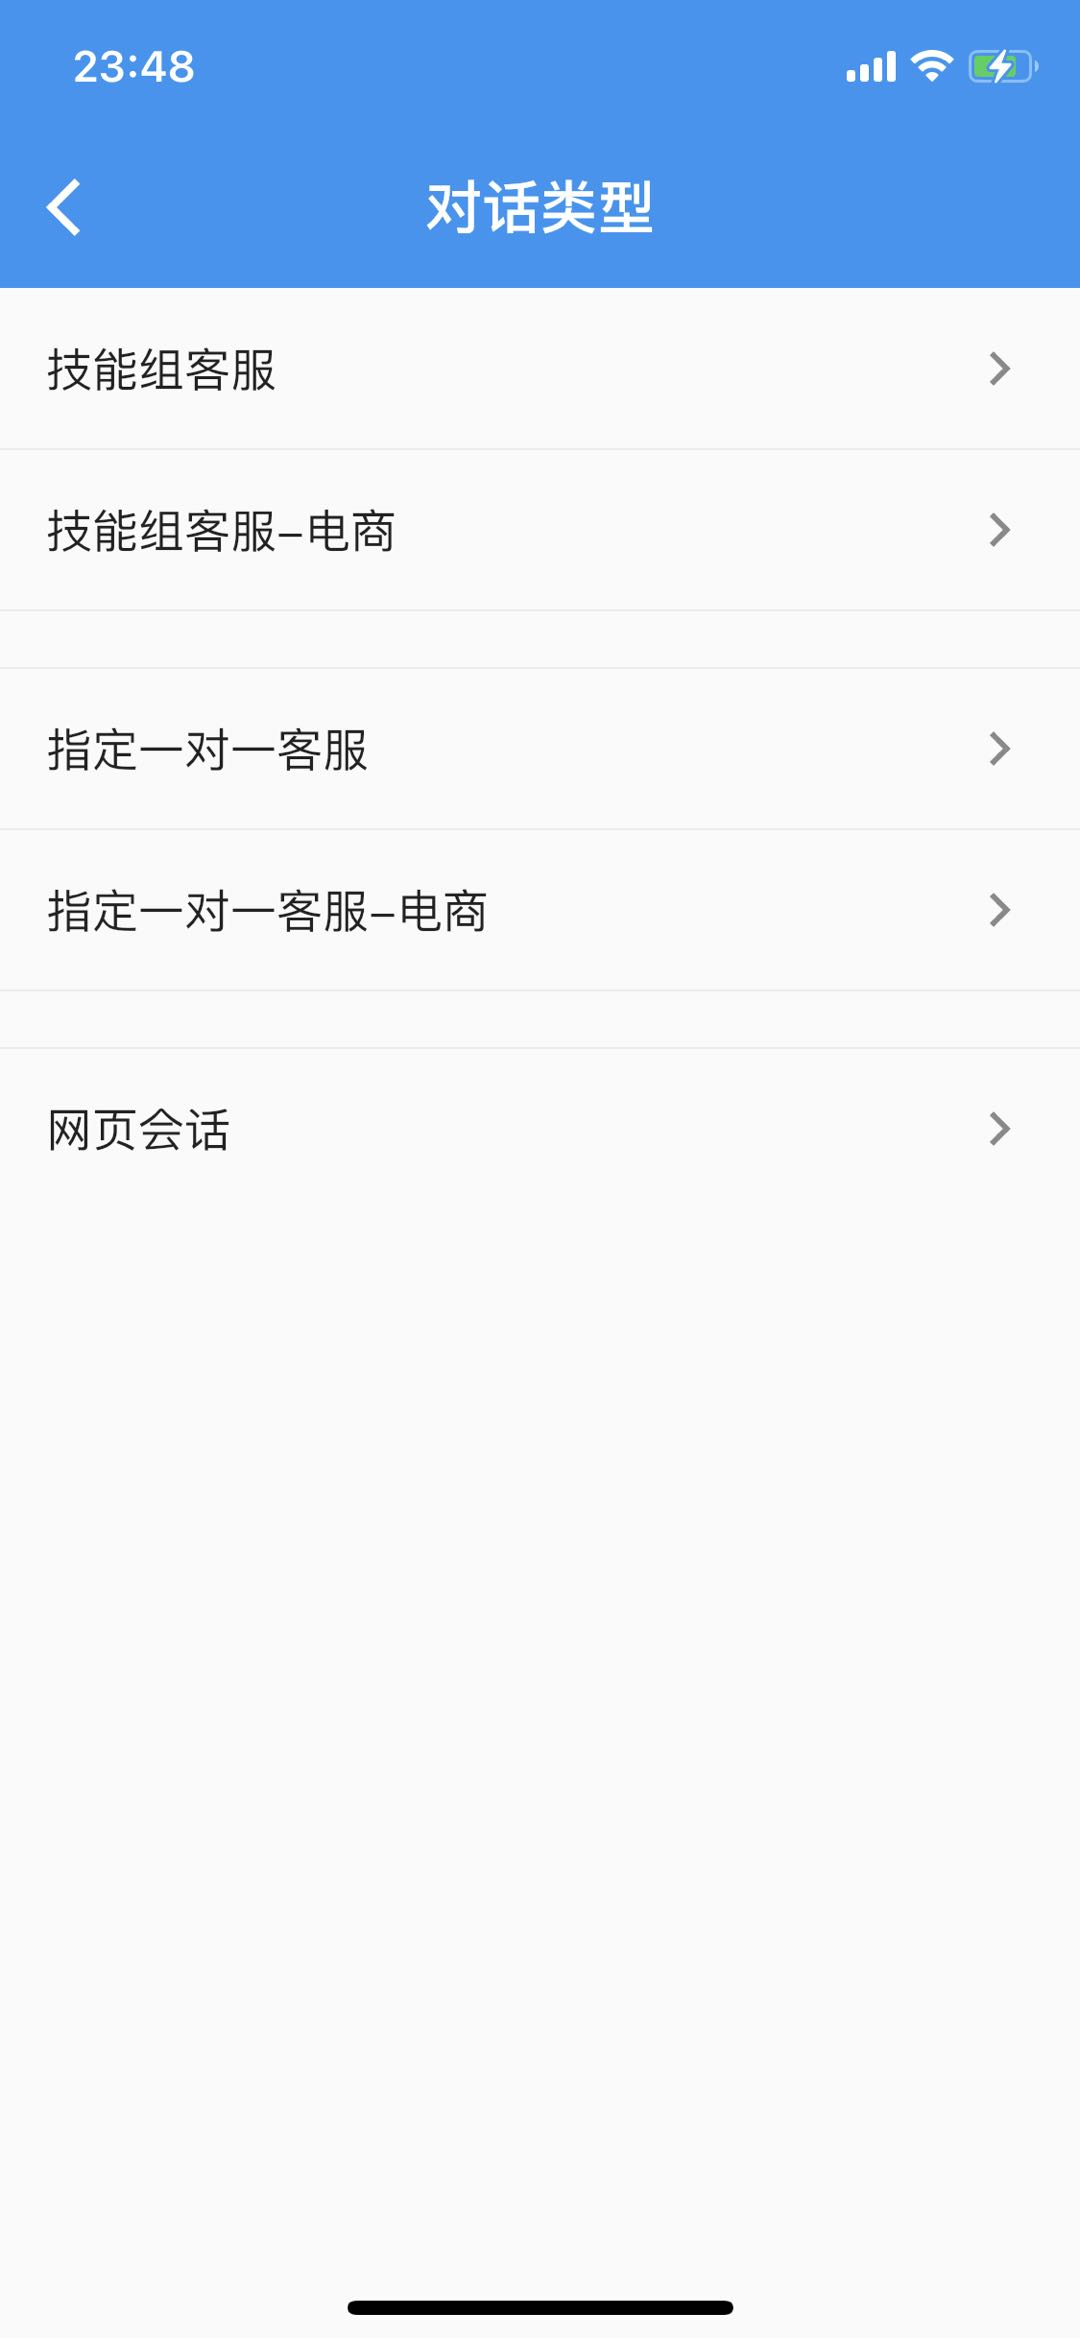
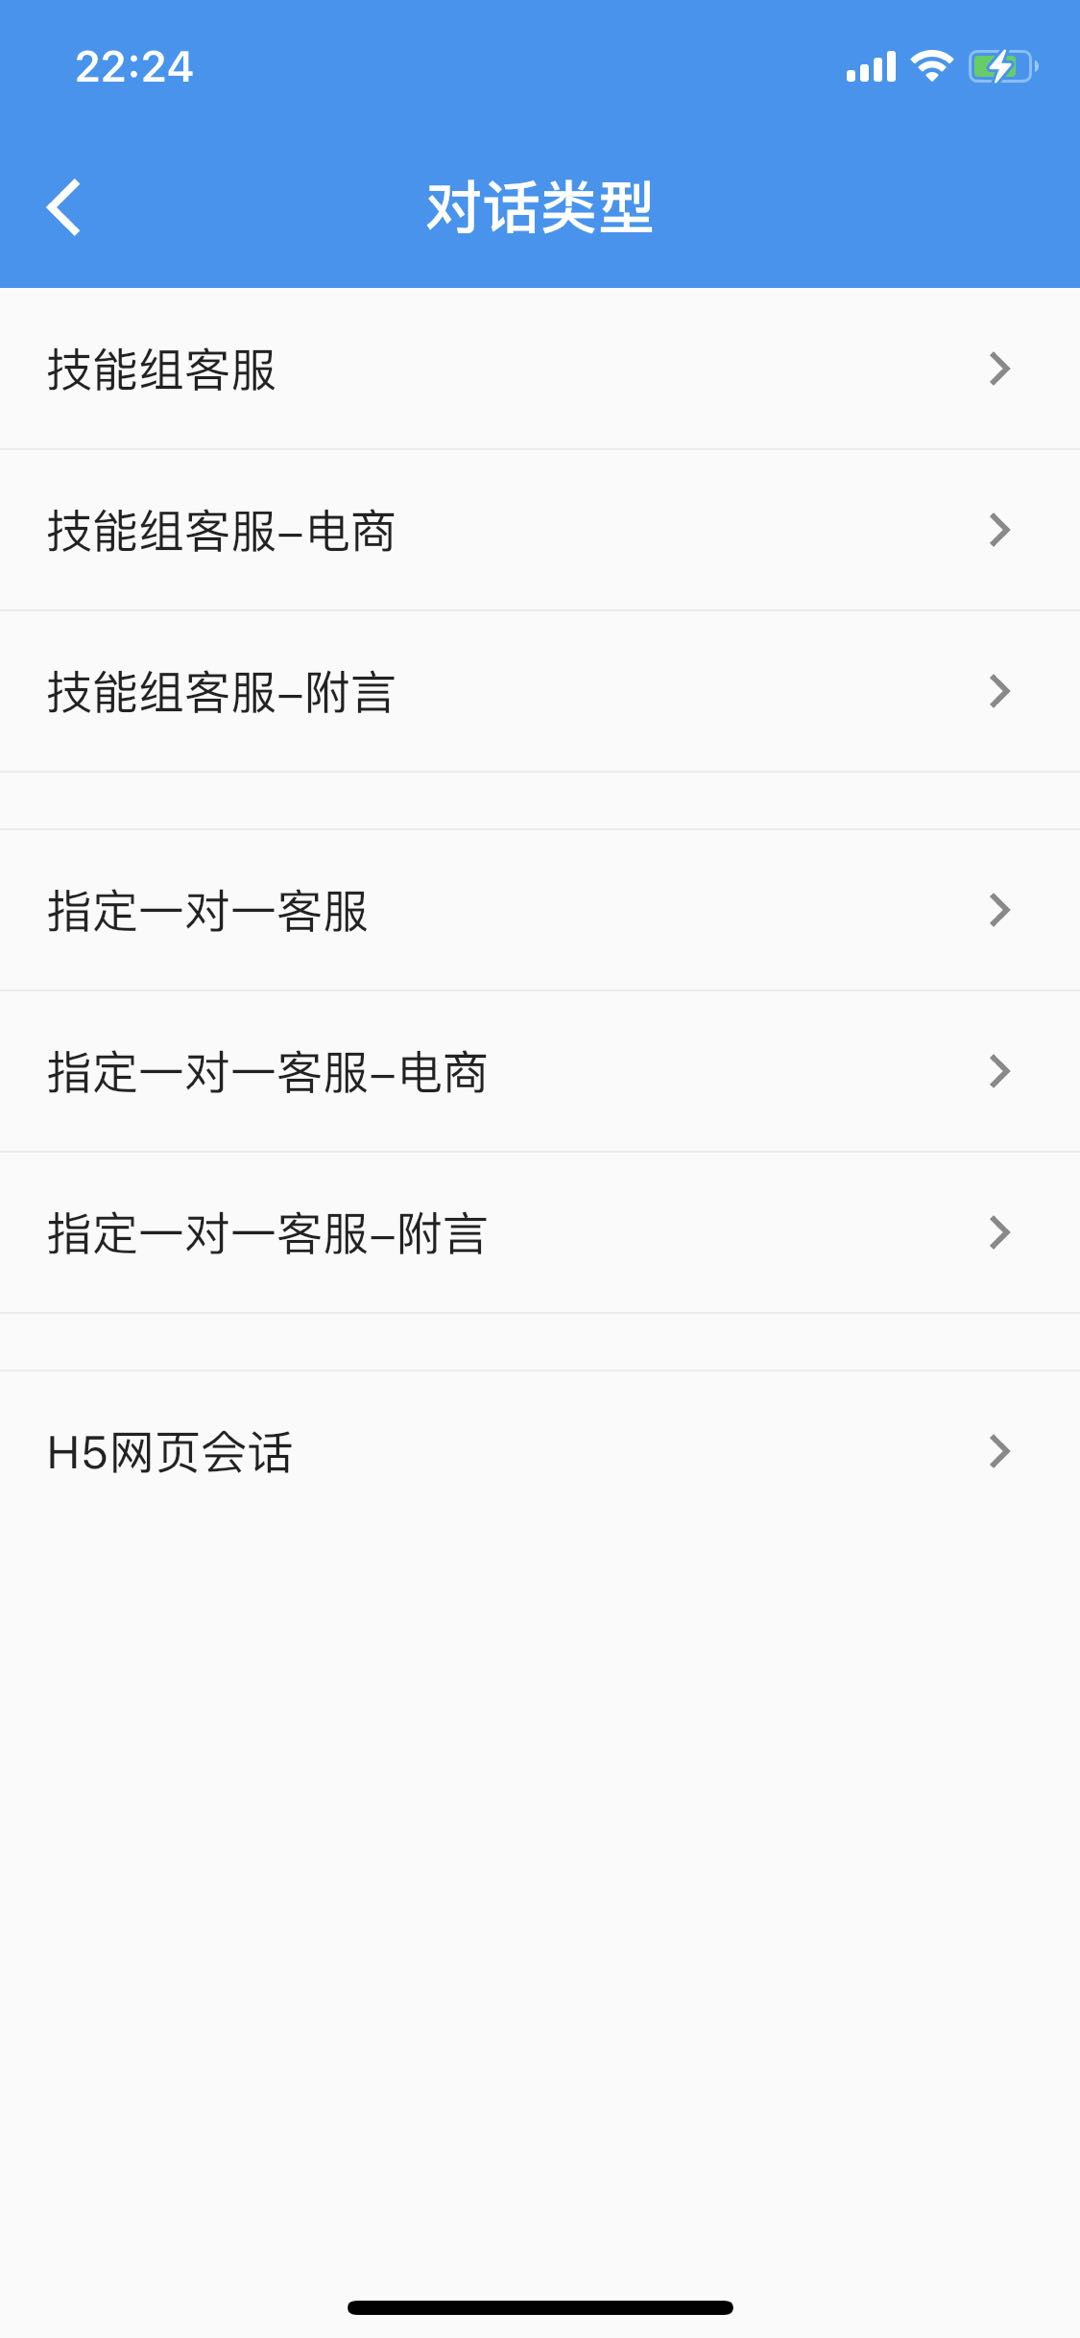
update to 0.1.1

diff --git a/README.md b/README.md
@@ -2,10 +2,27 @@
 
 萝卜丝(bytedesk) flutter 客服SDK
 
-## Getting Started
+## 功能
+
+- 技能组客服
+- 一对一客服
+- 支持发送电商商品信息
+- 支持发送附言消息
+- 获取当前客服在线状态
+- 获取历史会话
+- 消息提示设置
+- 机器人对话
+- 消息送达/已读
+- 消息撤回
+- 输入状态(对方正在输入)
+<!-- - 提交工单 -->
+<!-- - 意见反馈 -->
+
+## 集成步骤
 
 ### 第一步
 
+- pubspec.yaml添加：bytedesk_kefu: ^0.1.0
 - [注册账号](https://www.bytedesk.com/antv/user/login)
 - 获取appkey，登录后台->客服管理->渠道管理->添加应用->appkey
 - 获取subDomain，也即企业号：登录后台->客服管理->客服账号->企业号
@@ -23,3 +40,10 @@
 
 <img src="./home.jpeg" width="25%" height="25%"/>
 <img src="./chat.jpeg" width="25%" height="25%"/>
+<img src="./chat_type.jpeg" width="25%" height="25%"/>
+<img src="./userinfo.jpeg" width="25%" height="25%"/>
+<img src="./status.jpeg" width="25%" height="25%"/>
+
+### 其他
+
+- 技术支持QQ 3群: 825257535
